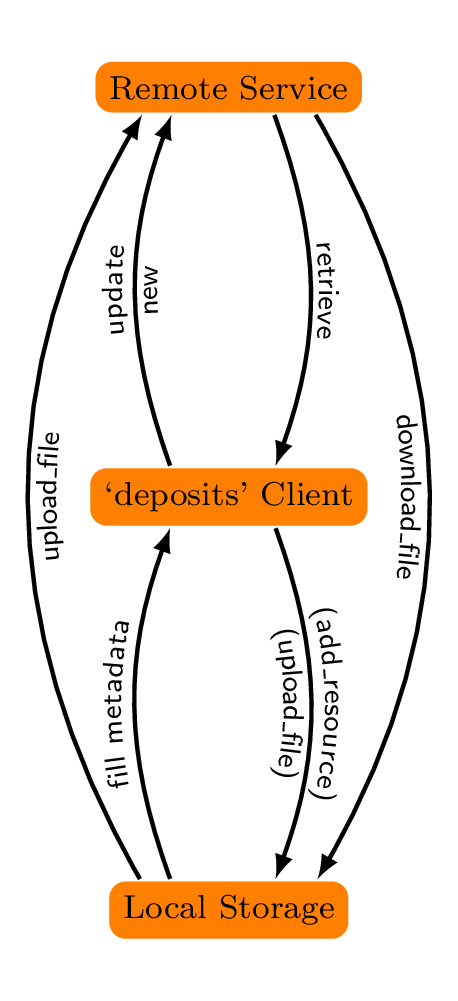
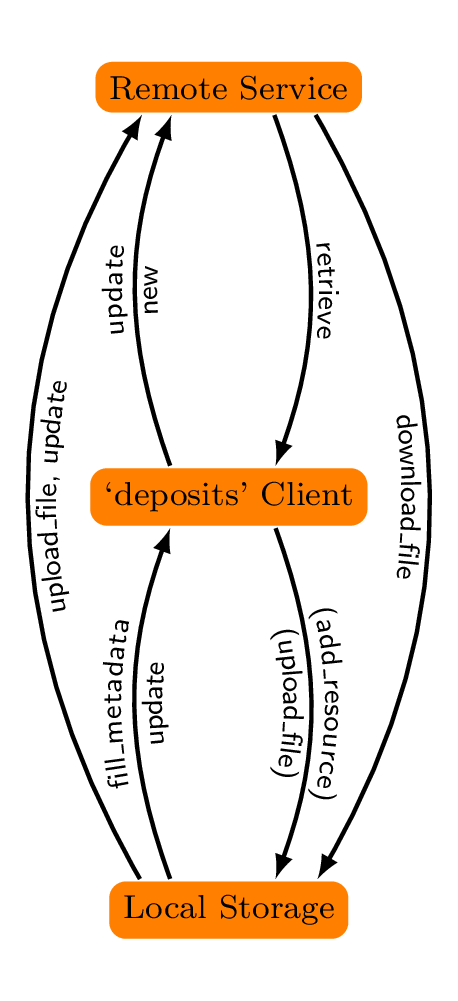
add several 'update' lines to fig1 for #78

diff --git a/vignettes/fig1.tex b/vignettes/fig1.tex
@@ -24,7 +24,16 @@
                     raise=0.8ex,
                     text along path,
                     text align=center,
-                    text={|\sffamily\scriptsize|fill metadata}
+                    text={|\sffamily\scriptsize|fill{\_}metadata}
+                }
+            },
+            postaction={
+                decorate,
+                decoration={
+                    raise=-1.5ex,
+                    text along path,
+                    text align=center,
+                    text={|\sffamily\scriptsize|update}
                 }
             },
             transform canvas={xshift=-4mm}
@@ -99,7 +108,7 @@
                     raise=-1.5ex,
                     text along path,
                     text align=center,
-                    text={|\sffamily\scriptsize|upload{\_}file}
+                    text={|\sffamily\scriptsize|upload{\_}file, update}
                 }
             },
             transform canvas={xshift=-6mm}
